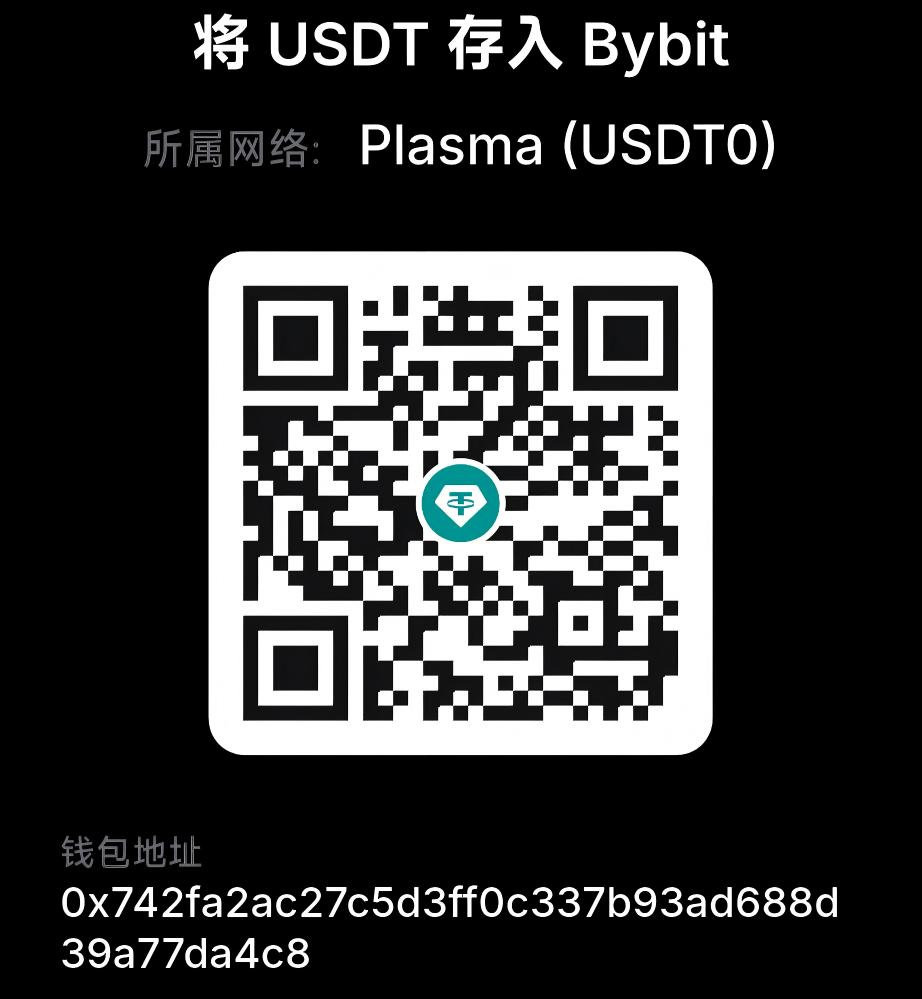
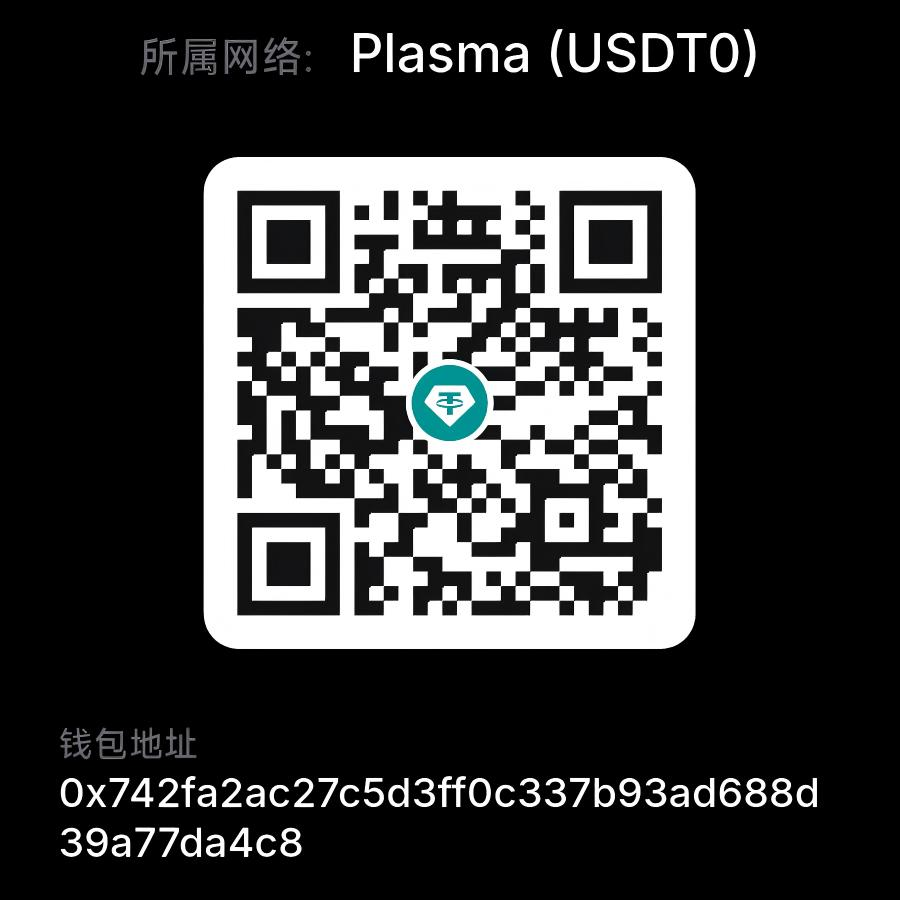
Release v0.1.3 with updated sponsorship QR codes

Changed region(s): [[0.1556, 0.1244, 0.84, 0.7778], [0.0622, 0.8089, 0.9333, 0.9956], [0.1556, 0.0, 0.84, 0.0933]]

diff --git a/README.en.md b/README.en.md
@@ -16,7 +16,7 @@ Customize every font element in SiYuan!
 - SiYuan's bundled KaTeX is specially adapted for dedicated math fonts. Keeping `KaTeX_Math` as the first choice and adding other fonts as fallbacks for Chinese characters is recommended.
 - Some Mermaid elements use independent fixed font sizes, so the plugin cannot override the font size of every diagram element.
 - WOFF2 is recommended because it is smaller. TTF/OTF fonts can be converted online with [CloudConvert](https://cloudconvert.com/ttf-to-woff2) or with my [FontConvert](https://github.com/MDfox-ChaosZone/Font-Converter) project.
-- Example font presets can be downloaded manually from the [Release](https://github.com/MDfox-ChaosZone/siyuan-font-studio/releases/tag/%E7%A4%BA%E4%BE%8B%E5%AD%97%E4%BD%93%E6%96%B9%E6%A1%88) and imported into the plugin. You are welcome to share your own presets through [GitHub Issues](https://github.com/MDfox-ChaosZone/siyuan-font-studio/issues); suitable submissions will also be published in that Release.
+- Example font presets can be downloaded manually from the [Release](https://github.com/MDfox-ChaosZone/siyuan-font-studio/releases/tag/%E7%A4%BA%E4%BE%8B%E5%AD%97%E4%BD%93%E6%96%B9%E6%A1%88) and imported into the plugin. You are welcome to share your own presets through [GitHub Issues](https://github.com/MDfox-ChaosZone/siyuan-font-studio/issues); presets will be manually added to that Release.
 
 ![Example font preset](assets/screenshots/font-preset-example.png)
 

diff --git a/README.md b/README.md
@@ -16,7 +16,7 @@
 - 思源内置的 KaTeX 对专用字体进行了特殊适配，因此建议保留 `KaTeX_Math` 作为首选字体，可次选其他字体来候补中文字符。
 - Mermaid 的部分元素使用独立固定字号，因此插件无法覆盖所有图表元素的字号修改。
 - 推荐使用体积更小的 WOFF2 字体格式。TTF/OTF 格式字体可以通过 [CloudConvert](https://cloudconvert.com/ttf-to-woff2) 在线转换，或使用本人项目 [FontConvert](https://github.com/MDfox-ChaosZone/Font-Converter) 转换。
-- 示例字体方案可以在 [Release](https://github.com/MDfox-ChaosZone/siyuan-font-studio/releases/tag/%E7%A4%BA%E4%BE%8B%E5%AD%97%E4%BD%93%E6%96%B9%E6%A1%88) 中手动下载并导入插件。欢迎通过 [GitHub Issues](https://github.com/MDfox-ChaosZone/siyuan-font-studio/issues) 分享自己的字体方案；合适的方案将同步发布到该 Release。
+- 示例字体方案可以在 [Release](https://github.com/MDfox-ChaosZone/siyuan-font-studio/releases/tag/%E7%A4%BA%E4%BE%8B%E5%AD%97%E4%BD%93%E6%96%B9%E6%A1%88) 中手动下载并导入插件。欢迎通过 [GitHub Issues](https://github.com/MDfox-ChaosZone/siyuan-font-studio/issues) 分享自己的字体方案，方案将手动同步到该 Release中。
 
 ![示例字体方案效果](assets/screenshots/font-preset-example.png)
 
